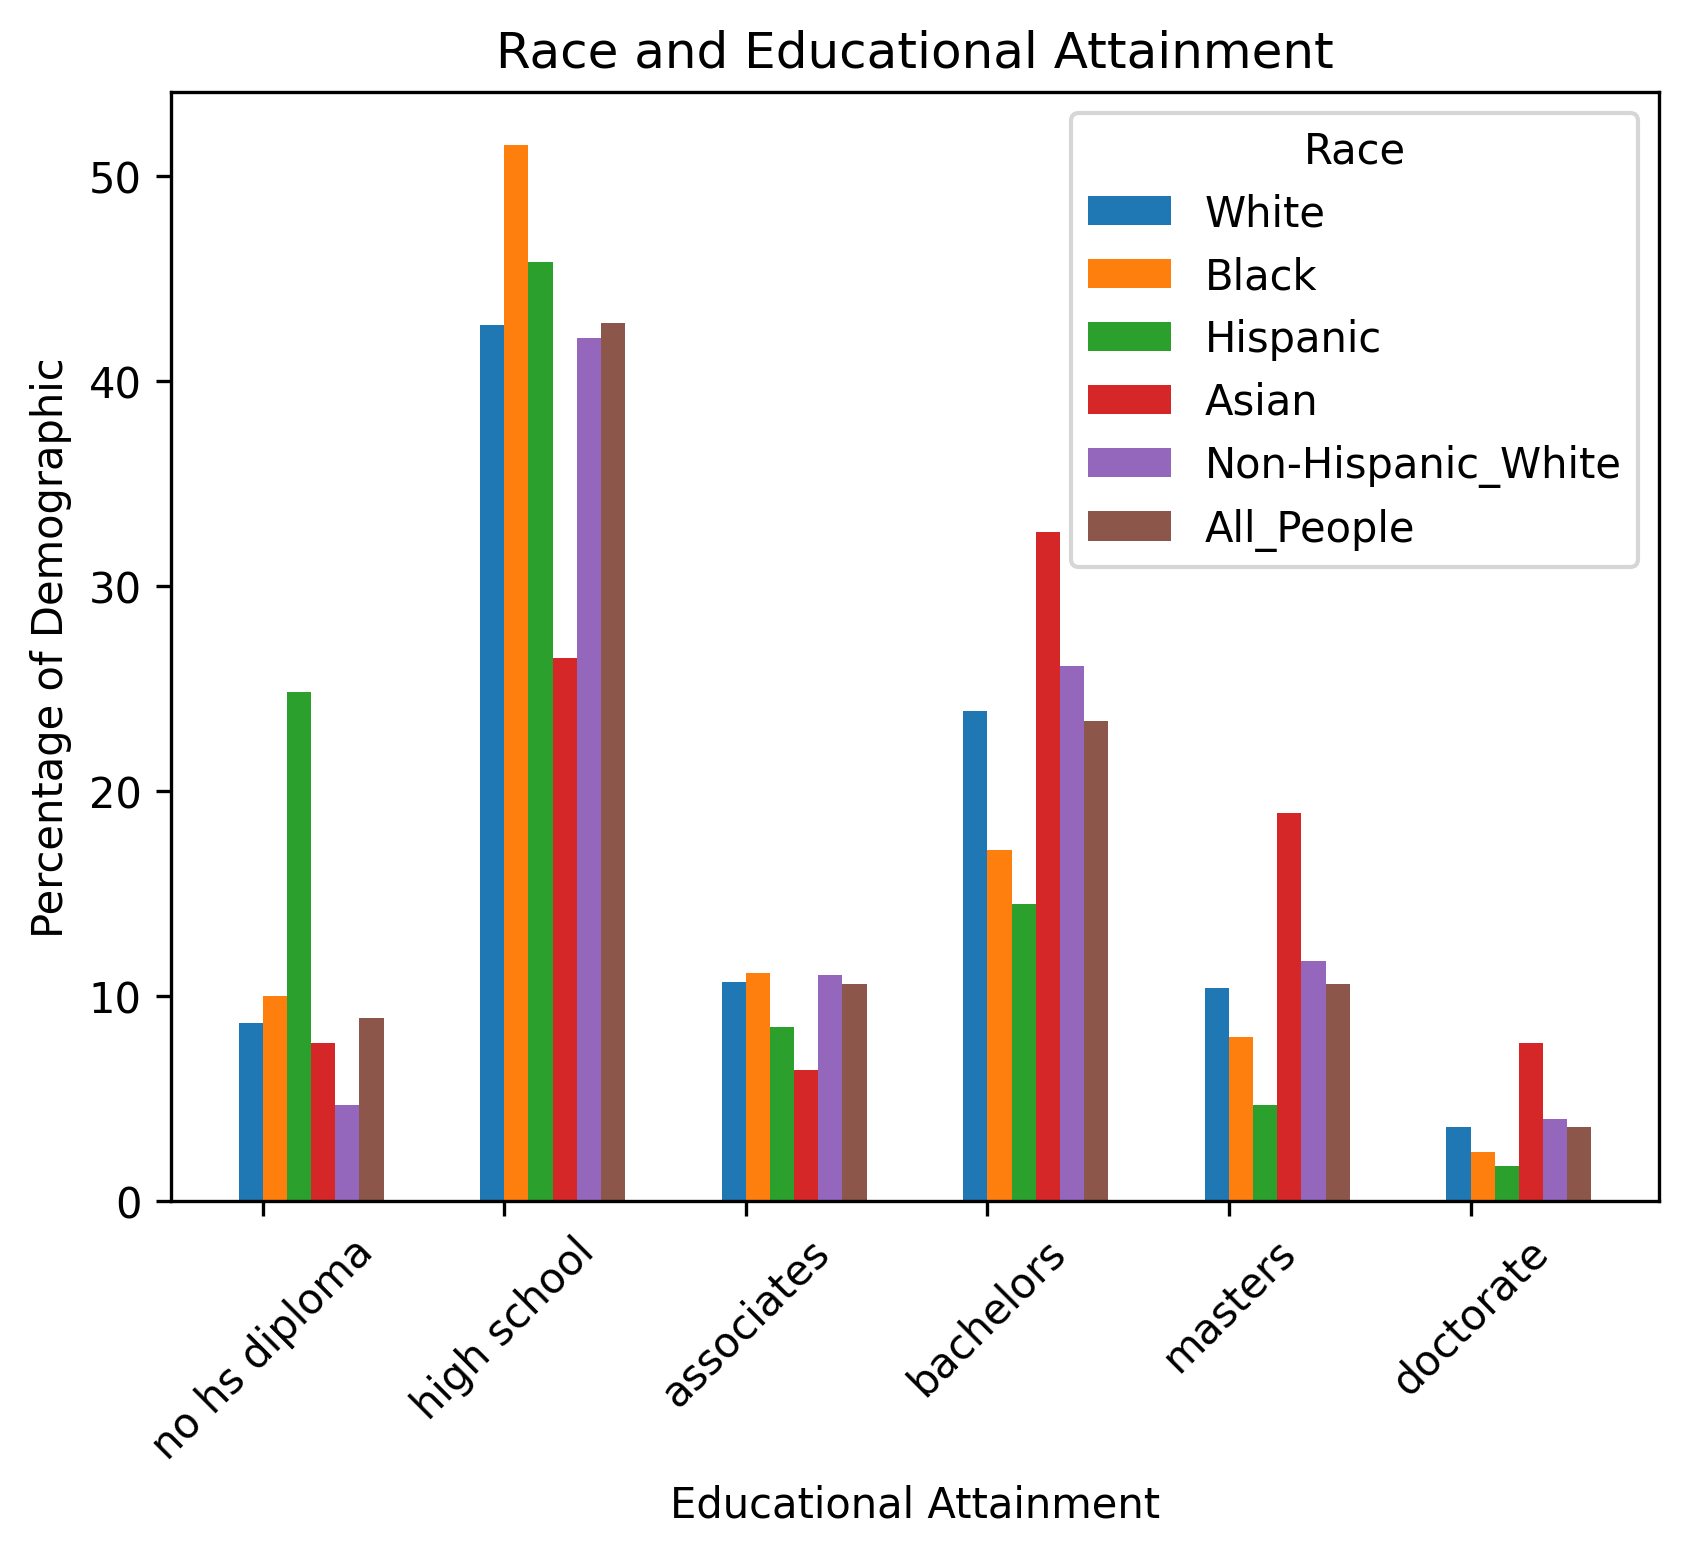
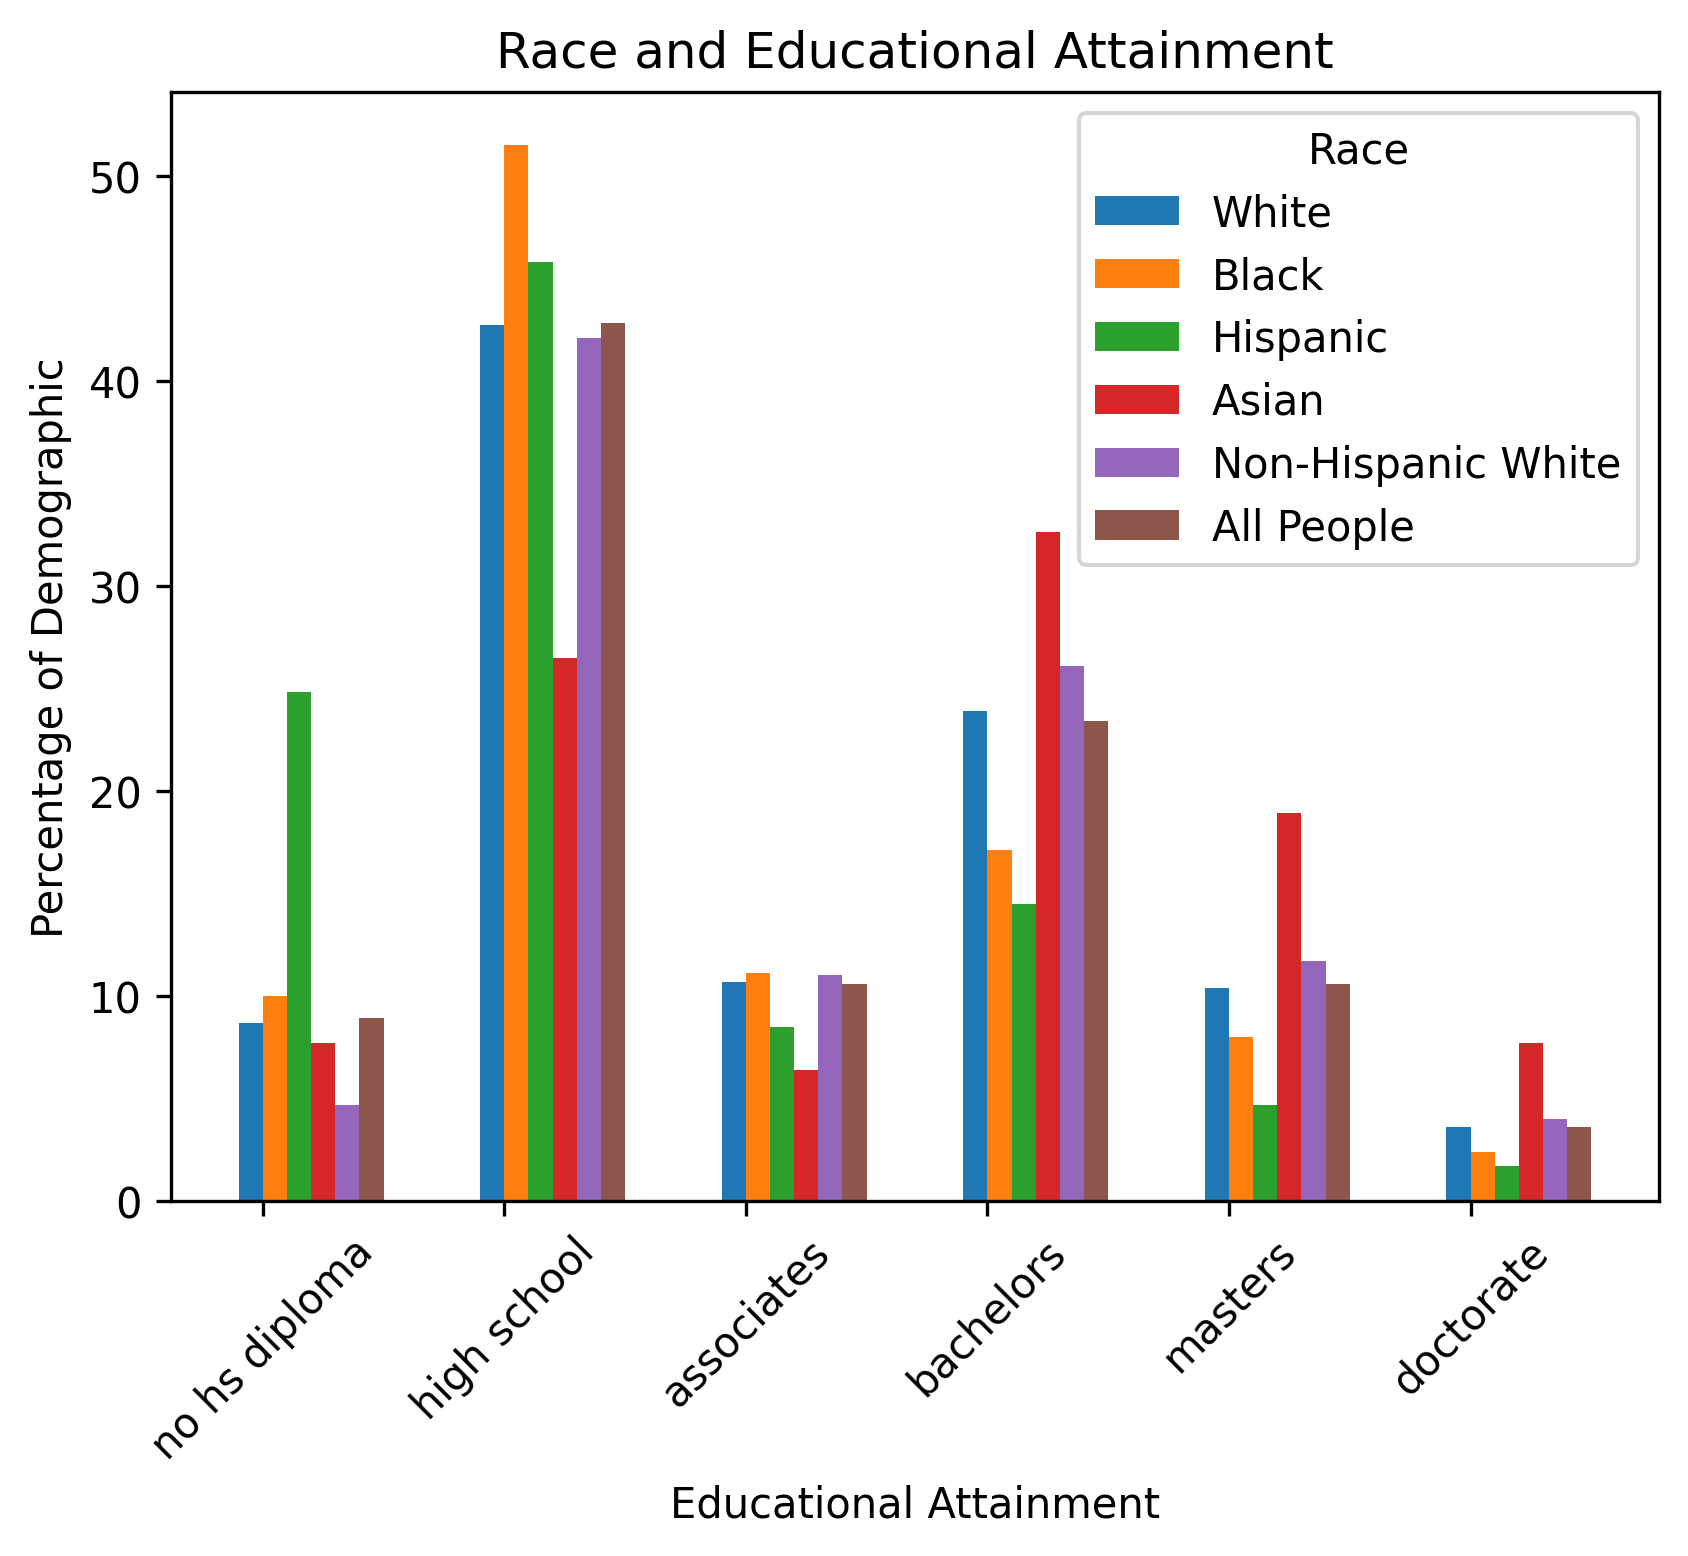
fixed race label text

Changed region(s): [[0.6161, 0.0617, 0.9242, 0.3702]]

diff --git a/race_attainment_visualization.py b/race_attainment_visualization.py
@@ -56,7 +56,7 @@ for i, race in enumerate(races):
             s += df_chunk.values.flatten().sum()
             offset += chunk
         group_percentages[j] += s
-    ax.bar(x + i * width, group_percentages, width, label=race_labels[i])
+    ax.bar(x + i * width, group_percentages, width, label=race_labels[i].replace('_', ' '))
 
 conn.close()
 
